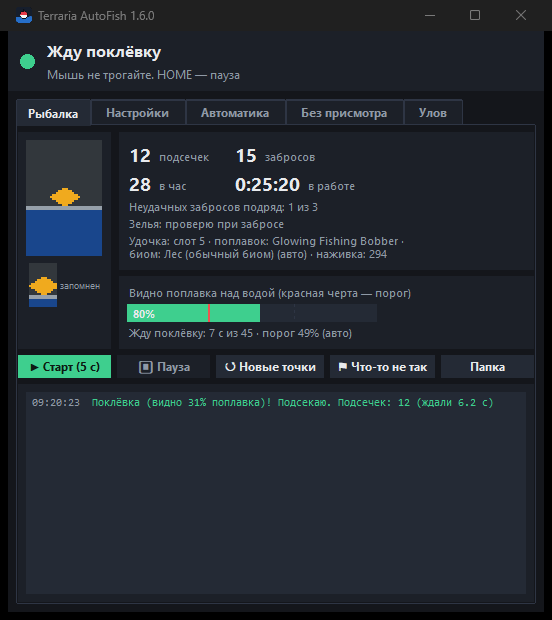
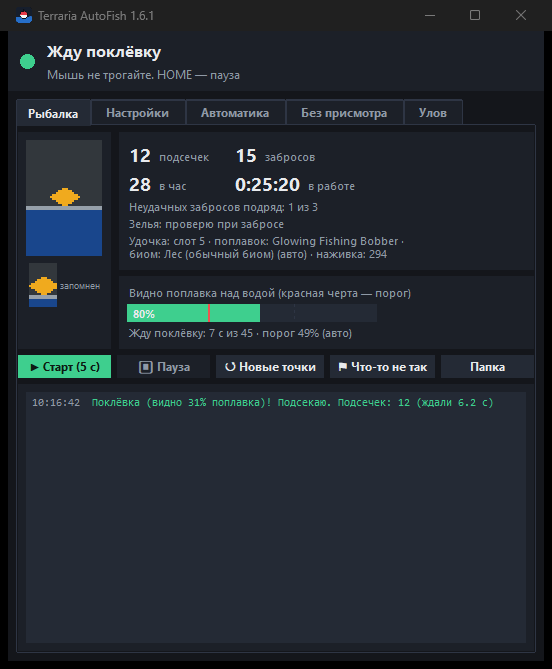
Version 1.6.1: support the author (Boosty, CloudTips), optional update check
- Support window: Boosty (works from abroad, first in English) and CloudTips
  (Russian cards, no sign-up, first in Russian), each with a short note
- README 'Support the project' sections and .github/FUNDING.yml (Sponsor button)
- Release notes and screenshots for 1.6.1

diff --git a/src/donate.py b/src/donate.py
@@ -3,13 +3,18 @@
 Список пуст — кнопки «Поддержать» в программе нет. Добавьте ссылку — кнопка появится
 (на вкладке «Настройки» и в меню значка в трее).
 
-Пример:
-    LINKS = [
-        ("Boosty", "https://boosty.to/<ваше имя>/donate"),
-        ("CloudTips", "https://pay.cloudtips.ru/p/<код>"),
-    ]
+Каждая страница: (название, адрес, кому подходит, язык, для которого она первая).
 """
 
 LINKS = [
-    ("CloudTips — на чай картой", "https://pay.cloudtips.ru/p/b2e68ed6"),
+    ("CloudTips — на чай картой", "https://pay.cloudtips.ru/p/b2e68ed6",
+     "российские карты, без регистрации", "ru"),
+    ("Boosty — страница автора", "https://boosty.to/lepyoha/donate",
+     "в том числе из-за рубежа; нужно войти в Boosty", "en"),
 ]
+
+
+def ordered(lang):
+    """Страницы в порядке, удобном для языка: сначала та, что подходит большинству его читателей
+    (русский — CloudTips без регистрации, английский — Boosty, куда можно платить из-за рубежа)."""
+    return sorted(LINKS, key=lambda link: link[3] != lang)

diff --git a/src/app.py b/src/app.py
@@ -27,7 +27,7 @@ import i18n
 from i18n import tr
 
 APP = "Terraria AutoFish"
-VERSION = "1.6.0"
+VERSION = "1.6.1"
 # Портативная версия: рядом с программой лежит portable.txt — всё хранится в папке программы
 PORTABLE = os.path.exists(os.path.join(af.HERE, "portable.txt"))
 CFG_DIR = (os.path.join(af.HERE, "settings") if PORTABLE
@@ -1102,8 +1102,9 @@ class App:
         ttk.Label(frame, text=tr("Программа бесплатная. Если она вам помогла, можно оставить автору «на чай» — "
                                  "это добровольно и ни на что в программе не влияет."),
                   style="Muted.TLabel", wraplength=340, justify="left").pack(anchor="w", pady=(6, 10))
-        for name, url in donate.LINKS:
-            ttk.Button(frame, text=tr(name), command=lambda u=url: webbrowser.open(u)).pack(fill="x", pady=2)
+        for name, url, note, _lang in donate.ordered(i18n.LANG):
+            ttk.Button(frame, text=tr(name), command=lambda u=url: webbrowser.open(u)).pack(fill="x", pady=(4, 0))
+            ttk.Label(frame, text=tr(note), style="Muted.TLabel").pack(anchor="w")
         ttk.Button(win, text=tr("Закрыть"), command=win.destroy).pack(anchor="e", padx=8, pady=(0, 8))
 
     def open_data(self):

diff --git a/src/i18n.py b/src/i18n.py
@@ -589,6 +589,8 @@ EN = {
     "Раз в сутки проверять, не вышла ли новая версия (GitHub)": "Check for a new version once a day (GitHub)",
     "CloudTips — на чай картой": "CloudTips — tip by card",
     "Boosty — страница автора": "Boosty — author page",
+    "российские карты, без регистрации": "Russian bank cards only, no sign-up",
+    "в том числе из-за рубежа; нужно войти в Boosty": "works from abroad too; you need to sign in to Boosty",
     # --- подписи на двух языках сразу (выбор языка) — одинаковы в обоих
     "Авто / Auto": "Авто / Auto",
     "Русский": "Русский",

diff --git a/tests/test_extras.py b/tests/test_extras.py
@@ -129,9 +129,12 @@ class TestDownload(unittest.TestCase):
 class TestDonate(unittest.TestCase):
     def test_links(self):
         import donate
-        for name, url in donate.LINKS:
-            self.assertTrue(name.strip())
+        for name, url, note, lang in donate.LINKS:
+            self.assertTrue(name.strip() and note.strip())
             self.assertTrue(url.startswith("https://"), url)
+            self.assertIn(lang, ("ru", "en"))
+        self.assertIn("cloudtips", donate.ordered("ru")[0][1])      # по-русски — без регистрации
+        self.assertIn("boosty", donate.ordered("en")[0][1])         # по-английски — можно из-за рубежа
 
 
 class TestScreens(unittest.TestCase):

diff --git a/src/installer.py b/src/installer.py
@@ -15,7 +15,7 @@ from tkinter import filedialog, ttk
 import setup_core as sc
 from i18n import system_lang
 
-VERSION = "1.6.0"
+VERSION = "1.6.1"
 LANG = system_lang()
 TEXT = {
     "title": ("Установка Terraria AutoFish %s", "Terraria AutoFish %s Setup"),

diff --git a/docs/releases/v1.6.1.md b/docs/releases/v1.6.1.md
@@ -1,0 +1,179 @@
+## Terraria AutoFish 1.6.1
+
+**English** · [Русский ниже](#русский)
+
+Automatic fishing for **Terraria** (1.4.4, 1.4.5 and newer, tModLoader). The program watches the bobber on the screen and hooks the fish the moment the bobber goes under water (or lava), then casts again. It takes the fishing rod in hand, finds the bobber by itself, drinks potions from the hotbar, can hook only the catch you want (Sonar Potion), counts what is caught, waits out Blood Moons and invasions and stops when something goes wrong. It works with screenshots, mouse clicks and key presses; it never changes the game's memory or files (it only reads item names from the game's own translation tables).
+
+### Download
+- **TerrariaAutoFish-1.6.1-setup.exe** — installer: installs for the current user (no admin rights), adds Desktop and Start menu shortcuts, updates an existing installation; remove it in Settings → Apps.
+- **TerrariaAutoFish-1.6.1-portable.zip** — portable version: unpack the `TerrariaAutoFish` folder anywhere (even a USB stick) and run `TerrariaAutoFish.exe`; settings are kept next to the program.
+
+### New in 1.6.1
+- **Support the author.** The ☕ **Support** button (Settings tab and the tray menu) opens a small window with two pages: **Boosty** (works from abroad too; you need to sign in to Boosty) and **CloudTips** (by card, no sign-up, Russian bank cards only). It's voluntary and changes nothing in the program. The same links are in the README and behind the **Sponsor** button on GitHub.
+- **The daily update check can be turned off** (Settings tab).
+
+If Terraria AutoFish helped you: [Boosty](https://boosty.to/lepyoha/donate) · [CloudTips](https://pay.cloudtips.ru/p/b2e68ed6). Thank you!
+
+### New in 1.6.0
+- **Diagnostics** (Settings tab): one check of everything needed for fishing — the game window, the hotbar and interface scale, the fishing rod and bait, potions in the hotbar and active buffs, health hearts, Windows text recognition languages, item names from the game, Zoom and saved points — each with what to do. The result is shown in a window and saved to `data\diagnostics_….txt`.
+- **⚑ Something's wrong** (Fishing tab): the last 60 search, bite and text pictures (kept in memory even with debug pictures off), a screenshot of the game window, the end of the log and the settings go into one `data\reports\mistake_….zip` — send it, and a strange case can be analysed right away.
+- **Events and death on real frames:** a new event line from the chat and the hearts at the moment of death are kept as pictures, and what was read is written to the log once — so the event recognition can be checked and improved on your games.
+- **Small window options:** opacity, text size, the mode block on/off, hide while fishing is paused.
+- **Charts in the catch report:** the catch over 14 days and by hour of day, how many crates and rare items, which biome gave the most.
+- **Less CPU:** while waiting for a bite the program takes an even 60 pictures a second (as many as the game draws) instead of up to ~150–200, and doesn't ask Windows for the game's process name on every picture — on the test game 23% → 9% of one core. The stats show the program's CPU load.
+- **One-click update for the portable version too:** it downloads the new zip, closes, replaces its files (settings and data are kept) and starts again.
+- **Second monitor:** the program window and the small window open where they were left, also on a monitor with negative coordinates; fishing on such a monitor is covered by a test.
+- **"Support the author"** window (appears once donation links are added).
+- **114 tests.**
+
+### Fixed in 1.5.1
+- **The program lost the bobber and followed an empty place.** In a dark cave the wide search took an empty spot on the water edge right next to the real bobber: the check "is it our bobber" looked for the Wiki image with too low a threshold (0.65, the empty edge gave 0.69). The remembered bobber image then "learned" the water edge, which looks the same along the whole surface, and the program watched an empty place — no bites for 45 s again and again, and its clicks got out of step with the real casts (a "hook" only cast the bobber). Now:
+  - a found place must look like the Wiki image of this bobber type (0.75+, the real bobber gives 0.95);
+  - the wide search takes the place most similar to the bobber in the zone;
+  - a place found only by the remembered image must pass the same check;
+  - after 3 recasts in a row without a bite the original bobber image and mark are restored.
+- **The program is in the project folder again** (`TerrariaAutoFish.exe` + `_internal`); everything it writes itself — logs, debug pictures, records, hotbar snapshots, reports — is in one `data` folder next to it.
+
+### New in 1.5.0
+**Events and death**
+- **Events in chat are waited out.** The game writes events in chat in green or purple; the program reads such a line and compares it with the game's texts: Blood, Pumpkin and Frost Moon and boss warnings — it reels in and waits one night (~9 min), solar eclipse — a day (~15 min), goblins, pirates, Frost Legion, martians, celestial invasion and a boss awakening — 10 min. Then fishing continues by itself (or press HOME). When an invasion is defeated ("A goblin army has been defeated!"), fishing continues at once.
+- **The character died — fishing stops completely.** No red left in the health hearts (while the hotbar is visible, so the fullscreen map isn't taken for death): no automatic resume, also while an event is being waited out.
+
+**The small window over the game shows the mode**: what is caught (everything or only checked with the Sonar Potion) and in which biome, the Angler quest, potions (and which aren't in the hotbar), what is watched, when to stop, how much bait is left and the last catch.
+
+**Fishing**
+- **A moved picture is followed.** If the character is pushed (an enemy, a fall), the whole picture moves and the old cast point may be over land. The program compares the place with its picture from the last successful cast and moves the cast point and the mark by the same amount instead of failing.
+- **Sonar text over lava.** Lava and waves change all the time, and before the text seemed to be always there — its appearance was missed, and later several texts overlapped. Now colors already present nearby in the background are not taken for letters: on real lava screenshots the text is found and read ("Обсидирыба").
+- **Zoom is recognized by itself** by the bobber's size on the first automatic search (100–200%) and saved in the settings.
+- **Exact bait count and how long it lasts.** The number on the fishing rod is read by samples of the game's digits; only a confident read is used (otherwise the number of digits, as before).
+- **Taking the rod:** a lost key press is repeated; keys are never pressed while the game window isn't active; after 3 failures it tries again in 2 minutes.
+- **Potions:** one reminder for all potions that aren't in the hotbar, repeated only when the list changes or every 10 minutes; can be turned off.
+- **Fixed:** yellow lights behind the hotbar (a garland) stretched the selected slot, the slot layout shifted and neither potions nor the fishing rod were found.
+- **Fixed:** an error when the bobber wasn't visible at all from the start of watching.
+
+**Catch**
+- **History between launches:** the catch report shows this session, today, 7 days or all time (`catch_history.json` next to the settings); CSV for the chosen period.
+
+**Program**
+- **One-click update:** when a new version is out, the button in Settings becomes "Update to X" — it downloads the installer (the size is checked), starts it and closes the program. The portable version opens the release page.
+- **Releases are published from the author's account** (the automatic build on GitHub only builds and keeps the files; `tools/publish_release.py`).
+- **Tidy project folder:** sources in `src`, scripts in `scripts`, the built program with its logs and pictures in `program`.
+- **114 tests**, including real screenshots from lava, a hotbar with yellow lights and bait numbers.
+
+### Features
+**Fishing**
+- **One-key start:** point at the water and press **HOME** — the program selects the rod, casts and finds the bobber. If it can't find it, point at the bobber and press **HOME** once more.
+- **Finds the bobber by itself** by the Terraria Wiki images of every rod's bobber and every Fishing Bobber accessory — in water and in lava; adapts to sunset, night, caves and weather; follows a moved picture.
+- **Bite detection** by how much of the bobber is visible; a sharp dip and the Sonar text count too. Waves, rain, fish shadows, pets, sparkles and lightning flashes are ignored. **Auto-calibration** of the threshold.
+- **Pause / resume** with **HOME** keeping the points (also after restarting the program); **new points** with **END**.
+
+**Automation**
+- **Fishing rod:** finds the rod in the hotbar (all 11 rods), remembers its slot and takes it in hand before casting.
+- **Potions from the hotbar:** Fishing, Crate, Sonar and Calming — exactly the needed potion; or with Quick Buff (B).
+- **Doesn't give up:** retries every 2 s, round after round; resumes by itself when you come back to the game.
+
+**Catch** (Sonar Potion)
+- Lists for every biome plus Crates, Rare and Junk — 128 catches; names exactly as the game writes them. The program hooks only what is checked; if the name can't be read confidently, it hooks.
+- **"Fishing in: Auto"** recognizes the biome by what bites and what is picked up; Angler quest fish; catch report and history with CSV.
+
+**Unattended**
+- **Health guard** (damage — reel in and pause), **death** — stop completely, **events** in chat — wait out and continue.
+- **Bait:** exact count and time left; less than 10 — notification; no bait — stop. **Inventory full** — pause.
+- **When to finish:** after N minutes or N hooks; optionally shut the computer down.
+
+**Interface**
+- State, live picture of the bobber, "bobber visible" bar, statistics, colored log (also in `logs`, 14 days), **Collect a report**.
+- Small window over the game with the mode, Windows notifications, sounds, tray icon, first-run guide (F1), update in one click.
+- English and Russian.
+
+Requirements: Windows 10/11; in Terraria use **Windowed** or **Borderless** mode. Use in single player or on your own server — macros are often prohibited on public servers. Rod, bobber, buff and potion images are from the Terraria Wiki and belong to Re-Logic; this project is not affiliated with Re-Logic.
+
+---
+
+### Русский
+
+Автоматическая рыбалка для **Terraria** (1.4.4, 1.4.5 и новее, tModLoader). Программа следит за поплавком на экране и подсекает, как только он уходит под воду (или под лаву), затем забрасывает снова. Сама берёт удочку в руки, находит поплавок, пьёт зелья из хотбара, может подсекать только нужный улов (зелье сонара), считает пойманное, пережидает Кровавую луну и вторжения и останавливается, если что-то пошло не так. Работает со снимками экрана, кликами мыши и нажатиями клавиш; память и файлы игры не меняет (только читает названия предметов из встроенных в игру таблиц перевода).
+
+### Скачать
+- **TerrariaAutoFish-1.6.1-setup.exe** — установщик: ставит программу для текущего пользователя (без прав администратора), создаёт ярлыки на рабочем столе и в меню «Пуск», обновляет установленную версию; удалить — в «Параметры → Приложения».
+- **TerrariaAutoFish-1.6.1-portable.zip** — портативная версия: распакуйте папку `TerrariaAutoFish` куда угодно (хоть на флешку) и запустите `TerrariaAutoFish.exe`; настройки хранятся рядом с программой.
+
+### Новое в 1.6.1
+- **Поддержать автора.** Кнопка **«☕ Поддержать»** (вкладка «Настройки» и меню значка в трее) открывает окошко с двумя страницами: **CloudTips** (картой, без регистрации, российские карты) и **Boosty** (в том числе из-за рубежа; нужно войти в Boosty). Это добровольно и ни на что в программе не влияет. Те же ссылки — в README и за кнопкой **Sponsor** на GitHub.
+- **Ежедневную проверку обновлений можно выключить** (вкладка «Настройки»).
+
+Если Terraria AutoFish вам помогла: [CloudTips](https://pay.cloudtips.ru/p/b2e68ed6) · [Boosty](https://boosty.to/lepyoha/donate). Спасибо!
+
+### Новое в 1.6.0
+- **«Диагностика»** (вкладка «Настройки»): одна проверка всего, что нужно для рыбалки, — окно игры, хотбар и масштаб интерфейса, удочка и наживка, зелья в хотбаре и баффы, сердечки здоровья, языки распознавания текста Windows, названия из игры, Zoom и сохранённые точки — на каждый пункт подсказка, что сделать. Итог — в окне и в `data\diagnostics_….txt`.
+- **«⚑ Что-то не так»** (вкладка «Рыбалка»): последние 60 картинок поиска, поклёвок и надписей (хранятся в памяти даже без отладочных картинок), снимок окна игры, конец журнала и настройки — в один `data\reports\mistake_….zip`. Пришлите его — и странный случай можно разобрать сразу.
+- **События и смерть на настоящих кадрах:** новая строка события из чата и сердечки в момент смерти сохраняются картинками, а прочитанное один раз пишется в журнал — так распознавание событий можно проверить и улучшить на ваших играх.
+- **Настройки окошка поверх игры:** непрозрачность, размер текста, блок режима вкл/выкл, прятать на паузе.
+- **Графики в отчёте об улове:** улов за 14 дней и по часам суток, сколько ящиков и редкого, какой биом дал больше всего.
+- **Меньше нагрузка на процессор:** пока ждёт поклёвку, программа делает ровно 60 снимков в секунду (столько, сколько рисует игра) вместо примерно 150–200 и не спрашивает у Windows имя процесса игры на каждом снимке — на тестовой игре 23 % → 9 % одного ядра. В статистике видна нагрузка программы.
+- **Обновление в один клик и для портативной версии:** скачивает новый архив, закрывается, заменяет свои файлы (настройки и данные сохраняются) и запускается снова.
+- **Второй монитор:** окно программы и окошко открываются там, где их оставили, и на мониторе с отрицательными координатами; рыбалка на таком мониторе проверена тестом.
+- **Окно «Поддержать автора»** (появится, когда будут добавлены ссылки для пожертвований).
+- **114 тестов.**
+
+### Исправлено в 1.5.1
+- **Программа теряла поплавок и следила за пустым местом.** В тёмной пещере широкий поиск взял пустое место на кромке воды рядом с настоящим поплавком: проверка «наш ли это поплавок» искала картинку с Вики со слишком низким порогом (0.65, а пустая кромка давала 0.69). Запомненный образец поплавка «переучивался» на кромку воды, одинаковую по всей поверхности, и программа следила за пустым местом — «нет поклёвки 45 с» раз за разом, а её клики сбивались с настоящими забросами («подсечка» только забрасывала поплавок). Теперь:
+  - найденное место должно быть похоже на картинку этого вида поплавка с Вики (от 0.75, настоящий поплавок даёт 0.95);
+  - широкий поиск берёт в зоне место, больше всего похожее на поплавок;
+  - место, найденное только по образцу, проходит ту же проверку;
+  - после 3 перезабросов подряд без поклёвки возвращаются исходные образец и отметка поплавка.
+- **Программа снова в папке проекта** (`TerrariaAutoFish.exe` + `_internal`); всё, что она пишет сама, — журналы, отладочные картинки, записи, снимки хотбара, отчёты — в одной папке `data` рядом с ней.
+
+### Новое в 1.5.0
+**События и смерть**
+- **События в чате пережидаются.** Игра пишет события в чат зелёным или фиолетовым; программа читает такую строку и сверяет с текстами игры: Кровавая, Тыквенная и Морозная луны и предупреждения о боссах — вытаскивает поплавок и пережидает ночь (~9 мин), солнечное затмение — день (~15 мин), гоблины, пираты, Ледяной легион, марсиане, небесное вторжение и пробуждение босса — 10 мин. Потом рыбалка продолжается сама (или нажмите HOME). Вторжение побеждено («Армия гоблинов побеждена!») — продолжает сразу.
+- **Персонаж погиб — рыбалка останавливается совсем.** Красного в сердечках не осталось (а хотбар при этом виден — полноэкранная карта за смерть не считается): без самопродолжения, в том числе пока пережидается событие.
+
+**Окошко поверх игры показывает режим работы**: что ловим (всё или только отмеченное по сонару) и в каком биоме, задание рыбака, зелья (и каких нет в хотбаре), за чем слежу, когда остановиться, сколько наживки и последний улов.
+
+**Рыбалка**
+- **Сдвиг картинки.** Если персонажа сдвинуло (враг, падение), вся картинка уезжает, и старая точка заброса может оказаться над сушей. Программа сравнивает место со снимком после последнего удачного заброса и переносит точку заброса и отметку на столько же, а не считает заброс неудачным.
+- **Надпись сонара над лавой.** Лава и волны всё время меняются, и раньше казалось, что надпись висит всегда, — её появление пропускалось, а потом несколько надписей накладывались друг на друга. Теперь цвета, которые уже есть рядом на фоне, не принимаются за буквы: на настоящих снимках из лавы надпись находится и читается («Обсидирыба»).
+- **Zoom узнаётся сам** по размеру поплавка при первом автопоиске (100–200 %) и сохраняется в настройках.
+- **Точное число наживки и на сколько её хватит.** Число на удочке читается по образцам цифр игрового шрифта; засчитывается только уверенное прочтение (иначе, как раньше, — сколько в числе цифр).
+- **Взять удочку:** потерявшееся нажатие повторяется; пока окно игры не активно, клавиши не нажимаются; после 3 неудач — новая попытка через 2 минуты.
+- **Зелья:** одно напоминание про все зелья, которых нет в хотбаре; повтор — только если список изменился или раз в 10 минут; можно выключить.
+- **Исправлено:** жёлтые огоньки за хотбаром (гирлянда) растягивали выбранный слот, раскладка слотов съезжала, и не находились ни зелья, ни удочка.
+- **Исправлено:** ошибка, когда поплавка с самого начала слежения не было видно.
+
+**Улов**
+- **История между запусками:** отчёт об улове — за эту рыбалку, сегодня, 7 дней или всё время (`catch_history.json` рядом с настройками); CSV за выбранный период.
+
+**Программа**
+- **Обновление в один клик:** когда вышла новая версия, кнопка в настройках становится «Обновить до X» — скачивает установщик (размер сверяется), запускает его и закрывает программу. Портативная версия открывает страницу релиза.
+- **Релизы выкладываются от аккаунта автора** (автосборка на GitHub только собирает и хранит файлы; `tools/publish_release.py`).
+- **Порядок в папке проекта:** исходники — в `src`, скрипты — в `scripts`, собранная программа со своими журналами и картинками — в `program`.
+- **114 тестов**, в том числе на настоящих снимках из лавы, хотбаре с жёлтыми огоньками и числах наживки.
+
+### Возможности
+**Рыбалка**
+- **Старт одной клавишей:** курсор на воду и **HOME** — программа возьмёт удочку, забросит и найдёт поплавок. Если не нашла — наведите на поплавок и нажмите **HOME** ещё раз.
+- **Сама находит поплавок** по картинкам с Terraria Wiki — поплавкам всех удочек и всем аксессуарам-поплавкам — в воде и в лаве; подстраивается под закат, ночь, пещеры и погоду; следует за сдвигом картинки.
+- **Поклёвка** — по тому, сколько поплавка видно; резкий нырок и надпись сонара тоже считаются. Волны, дождь, тени рыб, питомцы, искры и вспышки молний не мешают. **Автокалибровка** порога.
+- **Пауза / продолжение** — **HOME**, с теми же точками (и после перезапуска программы); **новые точки** — **END**.
+
+**Автоматика**
+- **Удочка:** находит удочку в хотбаре (все 11 удочек), запоминает слот и берёт её в руки перед забросом.
+- **Зелья из хотбара:** рыбалки, ящиков, сонара и спокойствия — именно нужное; или быстрым баффом (B).
+- **Не сдаётся:** пробует снова каждые 2 с, круг за кругом; сама продолжает, когда вы возвращаетесь в игру.
+
+**Улов** (зелье сонара)
+- Списки для каждого биома, а ещё ящики, редкое и мусор — 128 видов улова; названия — ровно как пишет игра. Подсекается только отмеченное; не прочитала название уверенно — подсекает.
+- **«Где рыбачу: Авто»** — биом узнаётся по тому, что клюёт и что подобрано; рыба для задания рыбака; отчёт и история улова с CSV.
+
+**Без присмотра**
+- **Защита персонажа** (урон — вытащить поплавок и пауза), **смерть** — остановка совсем, **события** в чате — переждать и продолжить.
+- **Наживка:** точное число и на сколько хватит; меньше 10 — уведомление; кончилась — остановка. **Инвентарь полон** — пауза.
+- **Когда закончить:** через N минут или N подсечек; по желанию — выключить компьютер.
+
+**Интерфейс**
+- Что происходит, живая картинка поплавка, шкала «видно поплавка», статистика, цветной журнал (ещё и в `logs`, 14 дней), **«Собрать отчёт»**.
+- Окошко поверх игры с режимом работы, уведомления Windows, звуки, значок в трее, мастер первого запуска (F1), обновление в один клик.
+- Русский и английский.
+
+Требования: Windows 10/11; в Terraria — режим **«Оконный»** или **«Без рамки»**. Используйте в одиночной игре или на своём сервере — на публичных серверах макросы часто запрещены. Картинки удочек, поплавков, баффов и зелий взяты с Terraria Wiki и принадлежат Re-Logic; проект не связан с Re-Logic.

diff --git a/README.ru.md b/README.ru.md
@@ -336,6 +336,16 @@ python src/app.py
 | `build.bat`, `.github/workflows/build.yml` | Сборка; автоматические тесты и сборка на GitHub |
 | `TerrariaAutoFish.exe`, `_internal/`, `data/`, `dist/` | Не в репозитории: собранная программа, то, что она пишет (журналы, картинки, снимки), результаты сборки |
 
+## Поддержать проект
+
+Terraria AutoFish бесплатная. Если она вам помогла, можно оставить автору «на чай» — это добровольно
+и ни на что в программе не влияет:
+
+- **[CloudTips](https://pay.cloudtips.ru/p/b2e68ed6)** — картой, без регистрации (российские карты);
+- **[Boosty](https://boosty.to/lepyoha/donate)** — страница автора, в том числе из-за рубежа (нужно войти в Boosty).
+
+Те же ссылки — за кнопкой **«☕ Поддержать»** на вкладке «Настройки» и в меню значка в трее.
+
 ## Важно
 
 Используйте в одиночной игре или на своём сервере. На публичных серверах макросы часто запрещены

diff --git a/README.md b/README.md
@@ -340,6 +340,16 @@ bait numbers, and check that every message is translated to English.
 | `build.bat`, `.github/workflows/build.yml` | Building; automatic tests and builds on GitHub |
 | `TerrariaAutoFish.exe`, `_internal/`, `data/`, `dist/` | Not in the repository: the built program, what it writes (logs, pictures, snapshots), build results |
 
+## Support the project
+
+Terraria AutoFish is free. If it helped you, you can leave the author a tip — it's voluntary and
+changes nothing in the program:
+
+- **[Boosty](https://boosty.to/lepyoha/donate)** — the author's page, works from abroad too (you need to sign in to Boosty);
+- **[CloudTips](https://pay.cloudtips.ru/p/b2e68ed6)** — by card, no sign-up, Russian bank cards only.
+
+The same links are behind the **☕ Support** button on the Settings tab and in the tray menu.
+
 ## Important
 
 Use it in single player or on your own server. Macros are often prohibited on public servers and
